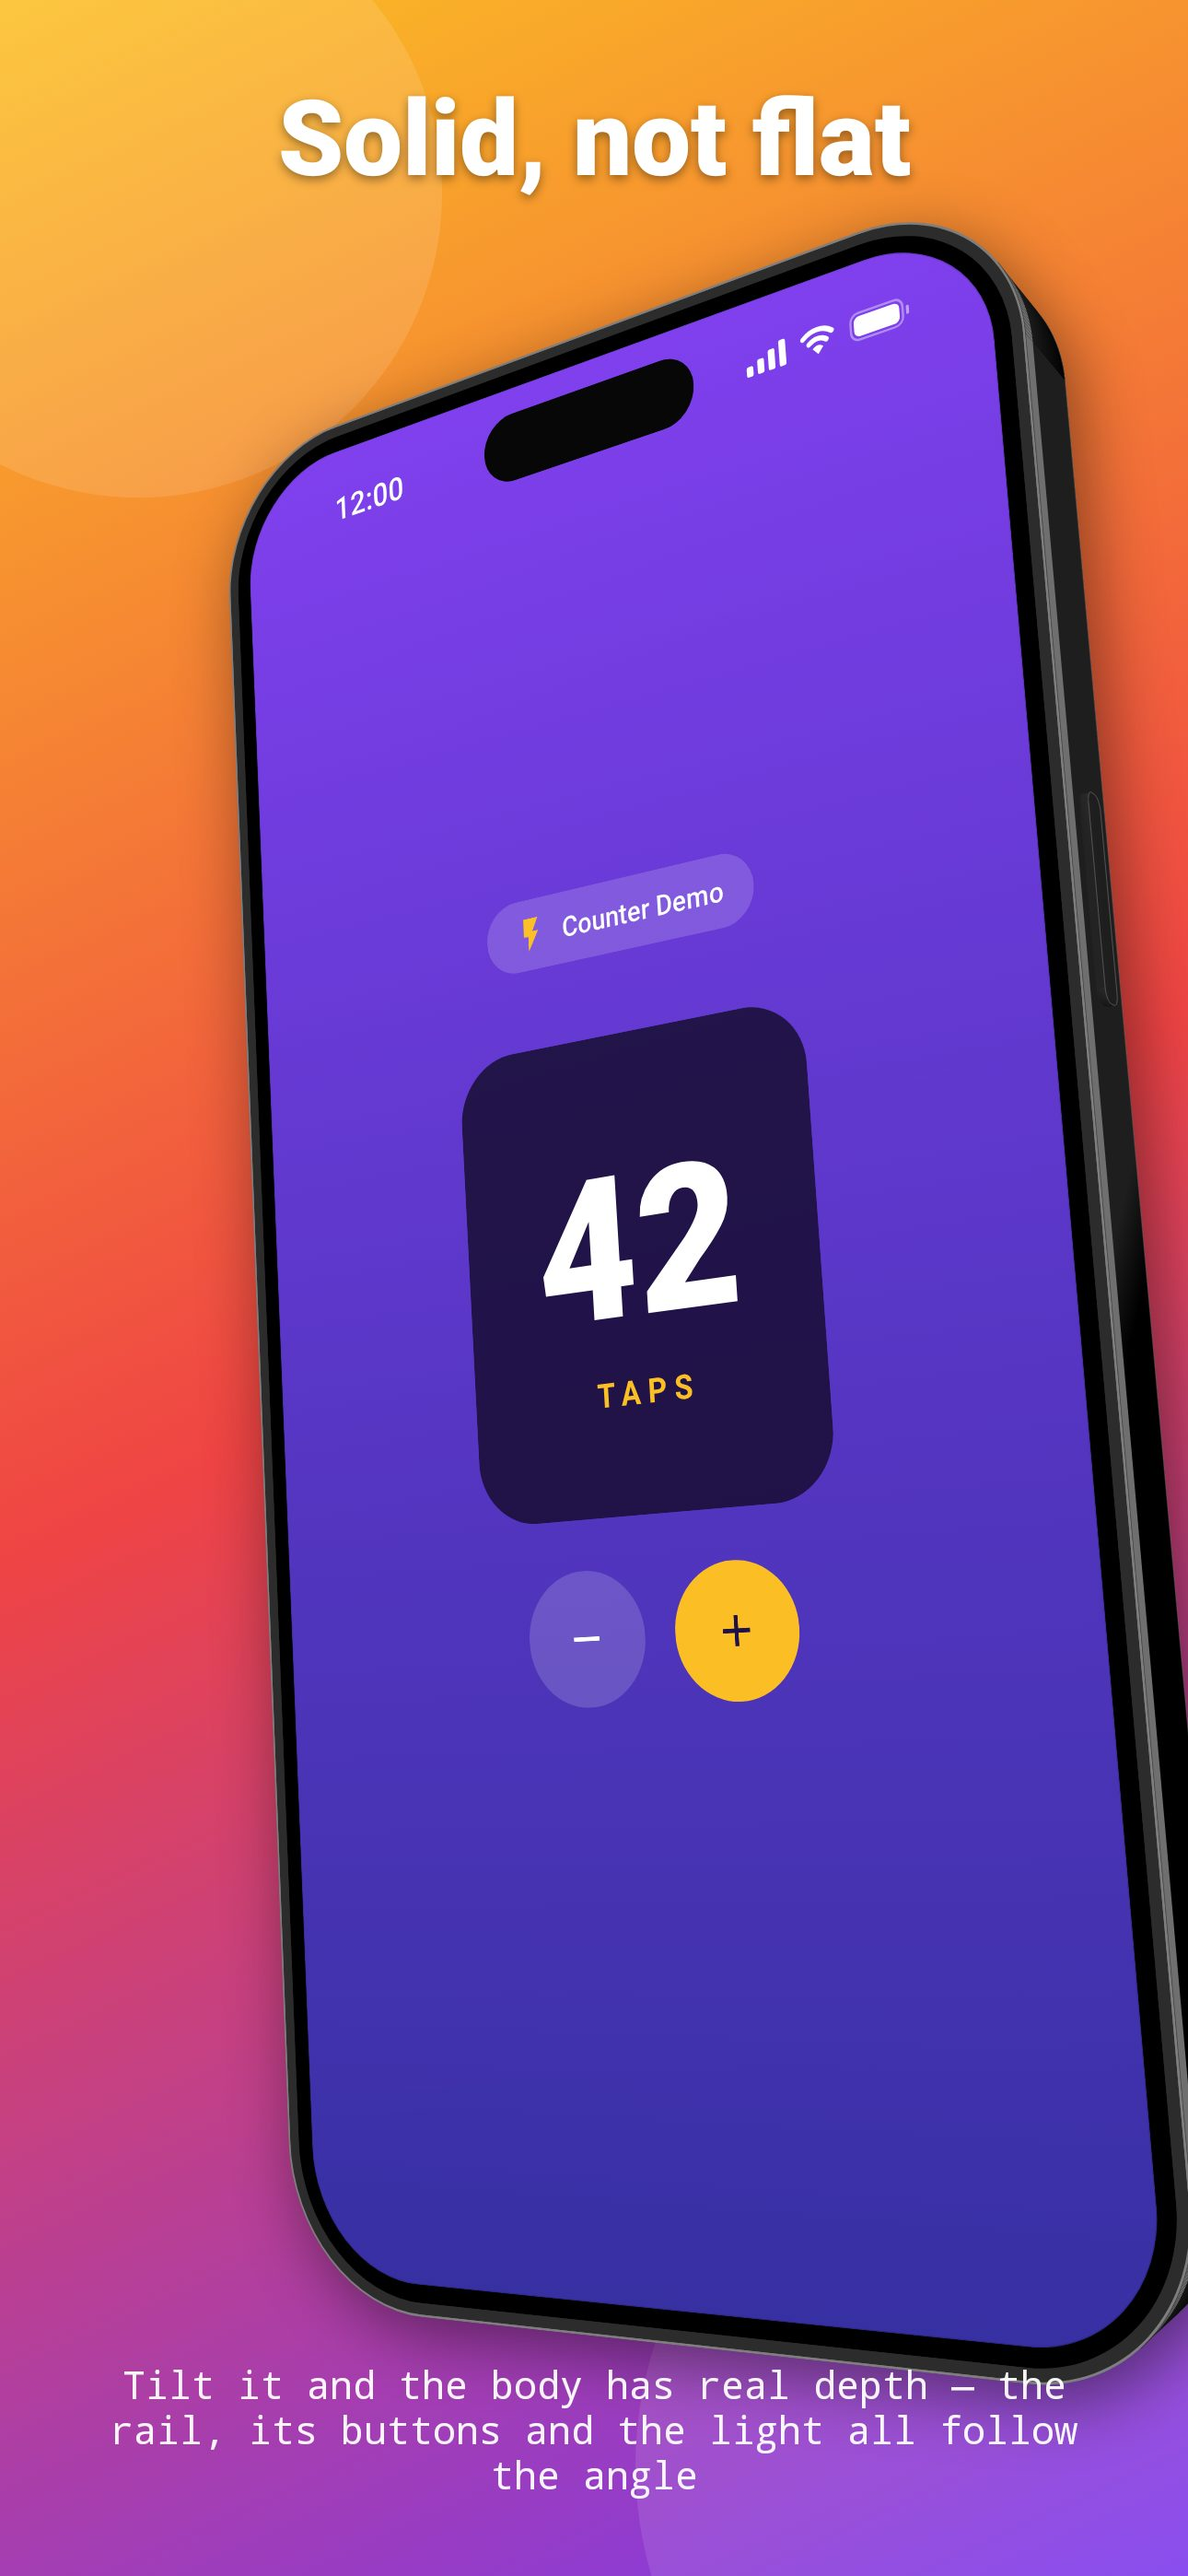
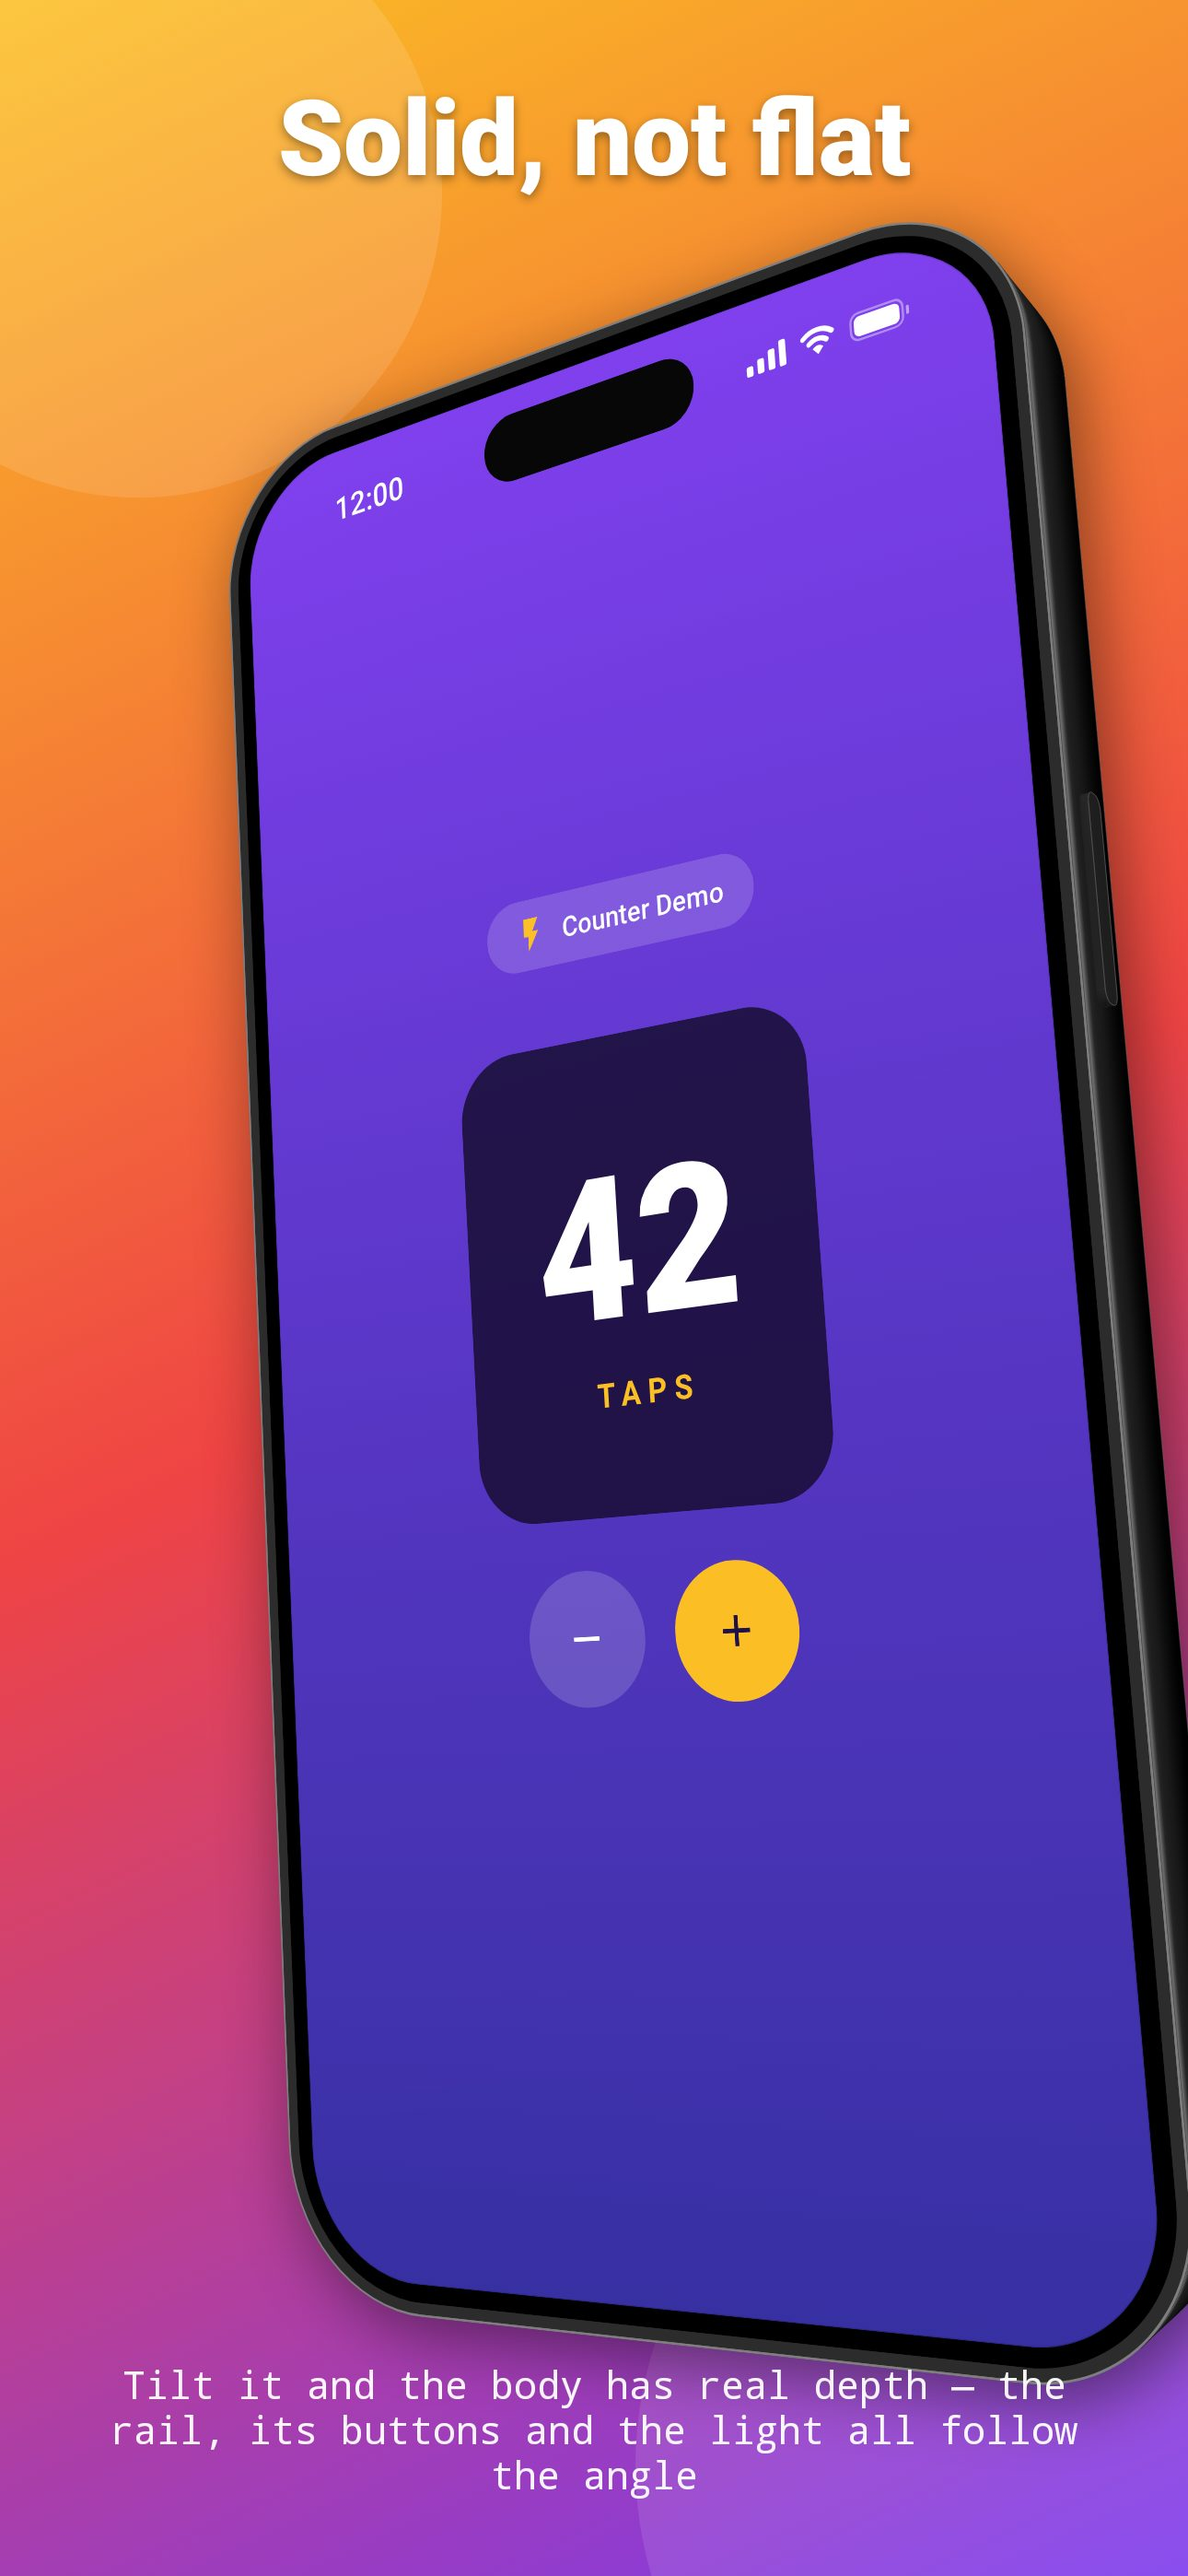
Roll a device's edge instead of mitring it
The rail met the front face at a hard line: a flat chamfer quad covering
the first fifth of the depth, with a step in both colour and shading where
it stopped, and the flat of the rail beside it. A machined edge has no such
boundary — it is one continuously curving surface, and a band of highlight
with a line down each side is exactly what it does not look like.

The normal now rolls: from the front face's direction, through the rail's
own, round to the back, eased at each end. Every point across the depth is
shaded by the direction it actually faces there, and the colour rolls with
it — polished at the glass, into the rail's metal, falling away at the back.
It draws as one gradient per wall, so there is no banding to avoid and no
extra geometry to carry.

The gradient's axis is the perpendicular to the rail's own edge, not the
line between the front and back midpoints. Those two are not the same once
the projection shears a long edge, and using the midpoints slides the
shading along the rail: the same rail then reads bright at one end and dark
at the other, which is what the first version of this did.

Changed region(s): [[0.8682, 0.1245, 1.0, 0.8401]]

diff --git a/library/src/main/kotlin/dev/lucianosantos/storescreenshots/frames/SolidDeviceMockup.kt b/library/src/main/kotlin/dev/lucianosantos/storescreenshots/frames/SolidDeviceMockup.kt
@@ -378,6 +378,7 @@ private fun DrawScope.drawRails(
     // turned away from the light: a 45-degree bevel finds the light long after the flat beside it
     // has lost it — which is exactly what makes a machined edge legible on a dark device.
     val faceNormal = tilt.rotate(Vec3(0f, 0f, 1f)).normalized()
+    val backNormal = Vec3(-faceNormal.x, -faceNormal.y, -faceNormal.z)
     val visible = ring.visibleSegments()
     if (visible.isEmpty()) return
     val n = ring.front.size
@@ -413,7 +414,15 @@ private fun DrawScope.drawRails(
         val mean = run.map { lighting.shadeFactor(ring.normals[it]) }.average().toFloat()
         drawPath(path, tint(body.railColor, mean))
 
-        // Detail pass: each wall at its own shade, and darkening toward the back of the body.
+        // Detail pass: each wall as a single fill whose colour runs the depth of the rail.
+        //
+        // The stops are not a colour ramp picked by eye — each one is the rail *shaded at the
+        // direction that surface actually faces at that depth*, and the direction rolls smoothly
+        // from the front face, round through the rail's own, to the back (see [filletNormal]). That
+        // is what makes the join to the glass read as a rounded edge rather than a mitre: a real
+        // machined edge has no boundary between the chamfer and the flat beside it, because it is
+        // one continuously curving surface, and a flat band of highlight with a hard line at each
+        // side is exactly what it does not look like.
         run.forEach { segment ->
             val next = (segment + 1) % n
             val quad = Path().apply {
@@ -423,7 +432,6 @@ private fun DrawScope.drawRails(
                 lineTo(ring.back[segment].x, ring.back[segment].y)
                 close()
             }
-            val shade = lighting.shadeFactor(ring.normals[segment])
             val front = Offset(
                 (inner[segment].x + inner[next].x) / 2f,
                 (inner[segment].y + inner[next].y) / 2f,
@@ -432,39 +440,22 @@ private fun DrawScope.drawRails(
                 (ring.back[segment].x + ring.back[next].x) / 2f,
                 (ring.back[segment].y + ring.back[next].y) / 2f,
             )
-            val brush = if ((front - back).getDistance() < 0.5f) {
-                SolidColor(tint(body.railColor, shade))
-            } else {
+            val rail = ring.normals[segment]
+            // The gradient has to run *across* the rail and stay constant along it. Its axis is
+            // therefore the perpendicular to the rail's own direction, not the line between the two
+            // midpoints: those two are not the same once the projection shears a long edge, and
+            // using the midpoints slides the shading along the rail's length — the same rail then
+            // reads bright at one end and dark at the other.
+            val brush = depthAxis(inner[segment], inner[next], front, back)?.let { (start, end) ->
                 Brush.linearGradient(
-                    0f to tint(body.railColor, shade),
-                    1f to tint(body.backColor, shade),
-                    start = front,
-                    end = back,
+                    colorStops = FilletStops
+                        .map { it to filletColor(it, body, lighting, faceNormal, backNormal, rail) }
+                        .toTypedArray(),
+                    start = start,
+                    end = end,
                 )
-            }
+            } ?: SolidColor(tint(body.railColor, lighting.shadeFactor(rail)))
             drawPath(quad, brush, style = Fill)
-
-            // The polished chamfer, a narrow band of the rail nearest the glass. Lit more strongly
-            // than the flat of the rail because it turns toward the light rather than straight out.
-            val chamferI = lerp(inner[segment], ring.back[segment], ChamferFraction)
-            val chamferJ = lerp(inner[next], ring.back[next], ChamferFraction)
-            val chamfer = Path().apply {
-                moveTo(inner[segment].x, inner[segment].y)
-                lineTo(inner[next].x, inner[next].y)
-                lineTo(chamferJ.x, chamferJ.y)
-                lineTo(chamferI.x, chamferI.y)
-                close()
-            }
-            val bevel = Vec3(
-                ring.normals[segment].x + faceNormal.x,
-                ring.normals[segment].y + faceNormal.y,
-                ring.normals[segment].z + faceNormal.z,
-            ).normalized()
-            // Polished, so it behaves more like a mirror strip than a matte surface: it keeps a
-            // floor of brightness whichever way it is turned, and climbs from there with the light.
-            val polish = ChamferFloor + (1f - ChamferFloor) *
-                ((bevel dot lighting.unit) * 0.5f + 0.5f).coerceIn(0f, 1f)
-            drawPath(chamfer, tint(body.rimColor, polish))
         }
     }
 
@@ -753,6 +744,97 @@ private fun contiguousRuns(visible: List<Int>, n: Int): List<List<Int>> {
     return runs
 }
 
+/**
+ * An axis running square across a rail, from its front edge to its back one.
+ *
+ * [edgeStart] and [edgeEnd] are the ends of the front edge; [front] and [back] its midpoints. The
+ * result is perpendicular to the edge and exactly as long as the rail is deep, so a gradient drawn
+ * along it is constant everywhere on a line parallel to the edge — which is what a shaded band
+ * across a rail has to be. Null when the rail is edge-on and has no depth to shade.
+ */
+private fun depthAxis(
+    edgeStart: Offset,
+    edgeEnd: Offset,
+    front: Offset,
+    back: Offset,
+): Pair<Offset, Offset>? {
+    val ex = edgeEnd.x - edgeStart.x
+    val ey = edgeEnd.y - edgeStart.y
+    val edge = kotlin.math.hypot(ex, ey)
+    if (edge < 1e-3f) return null
+    // Perpendicular to the edge, turned to point across the rail rather than back over the face.
+    var nx = -ey / edge
+    var ny = ex / edge
+    val depth = (back.x - front.x) * nx + (back.y - front.y) * ny
+    if (kotlin.math.abs(depth) < 0.5f) return null
+    if (depth < 0f) { nx = -nx; ny = -ny }
+    val span = kotlin.math.abs(depth)
+    return front to Offset(front.x + nx * span, front.y + ny * span)
+}
+
+/**
+ * The direction the body's edge faces at [t] of the way through its depth.
+ *
+ * A device's edge is not three flat faces meeting at two mitres — it is the front, a rolled edge,
+ * the flat of the rail, another rolled edge, and the back. Turning the normal smoothly through
+ * those rolls, and shading each part of the band by the normal it actually has, is what draws a
+ * rounded edge without needing any more geometry than the two rings already give us.
+ */
+private fun filletNormal(t: Float, face: Vec3, back: Vec3, rail: Vec3): Vec3 = when {
+    t <= FrontFillet -> mix(face, rail, smoothStep(t / FrontFillet))
+    t >= 1f - BackFillet -> mix(rail, back, smoothStep((t - (1f - BackFillet)) / BackFillet))
+    else -> rail
+}.normalized()
+
+/** The rail's colour at [t] of the way through its depth, lit by the direction it faces there. */
+private fun filletColor(
+    t: Float,
+    body: DeviceBody,
+    lighting: MockupLighting,
+    face: Vec3,
+    back: Vec3,
+    rail: Vec3,
+): Color {
+    val normal = filletNormal(t, face, back, rail)
+    // Polished where it is rolling over, flat metal across the middle, falling away at the back.
+    val base = when {
+        t <= FrontFillet -> mixColor(body.rimColor, body.railColor, smoothStep(t / FrontFillet))
+        else -> mixColor(body.railColor, body.backColor, smoothStep((t - FrontFillet) / (1f - FrontFillet)))
+    }
+    // A rolled edge behaves more like a mirror strip than a matte surface, so it keeps a floor of
+    // brightness whichever way it is turned; the flat of the rail does not.
+    val roll = (1f - smoothStep(t / FrontFillet)).coerceIn(0f, 1f)
+    val lit = lighting.shadeFactor(normal)
+    val polished = lit + (1f - lit) * roll * PolishFloor
+    return tint(base, polished)
+}
+
+/** Hermite ease, so a roll has no corner where it begins or ends. */
+private fun smoothStep(t: Float): Float {
+    val x = t.coerceIn(0f, 1f)
+    return x * x * (3f - 2f * x)
+}
+
+private fun mix(from: Vec3, to: Vec3, t: Float) = Vec3(
+    from.x + (to.x - from.x) * t,
+    from.y + (to.y - from.y) * t,
+    from.z + (to.z - from.z) * t,
+)
+
+private fun mixColor(from: Color, to: Color, t: Float) = Color(
+    red = from.red + (to.red - from.red) * t,
+    green = from.green + (to.green - from.green) * t,
+    blue = from.blue + (to.blue - from.blue) * t,
+    alpha = from.alpha + (to.alpha - from.alpha) * t,
+)
+
+/**
+ * Where the rail's gradient is sampled through its depth. Clustered at the front, because that is
+ * where the edge is rolling over and the shading changes quickest; the flat behind it needs almost
+ * none.
+ */
+private val FilletStops = listOf(0f, 0.03f, 0.07f, 0.12f, 0.18f, 0.26f, 0.45f, 0.7f, 0.88f, 1f)
+
 /** A point [t] of the way from [from] to [to]. */
 private fun lerp(from: Offset, to: Offset, t: Float) =
     Offset(from.x + (to.x - from.x) * t, from.y + (to.y - from.y) * t)
@@ -781,14 +863,16 @@ private const val FeatureRimStrength = 0.45f
 private const val FeatureRimWidth = 1f
 
 /**
- * How much of a rail's depth, nearest the front face, is the polished chamfer rather than the flat
- * of the rail — and how much brighter it is than the rail's own face. It is this narrow bright line
- * running the length of the body, not the shade of the rail itself, that reads as machined metal.
+ * How much of a rail's depth is taken by the edge rolling over from the front face, and by the one
+ * rolling onto the back. It is these rolls, not the shade of the flat between them, that read as
+ * machined metal — and giving them a width rather than a hard line is what stops the body looking
+ * like three flat faces glued together.
  */
-private const val ChamferFraction = 0.2f
+private const val FrontFillet = 0.22f
+private const val BackFillet = 0.16f
 
-/** How bright a polished chamfer stays even with the light behind it. */
-private const val ChamferFloor = 0.55f
+/** How much brightness a rolled edge keeps even with the light behind it, being polished. */
+private const val PolishFloor = 0.5f
 
 /** The bevel where the front face turns over into the rail: a hairline, and how brightly it lights. */
 private const val BevelWidth = 1.5f
